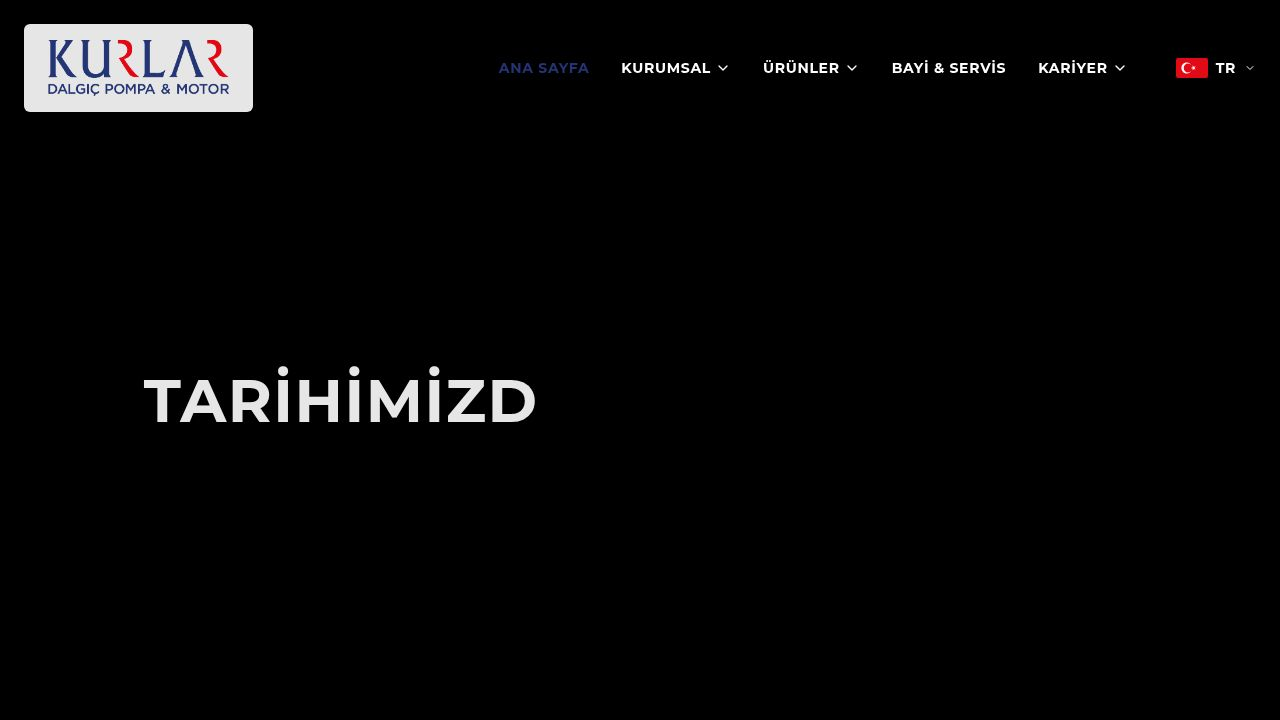
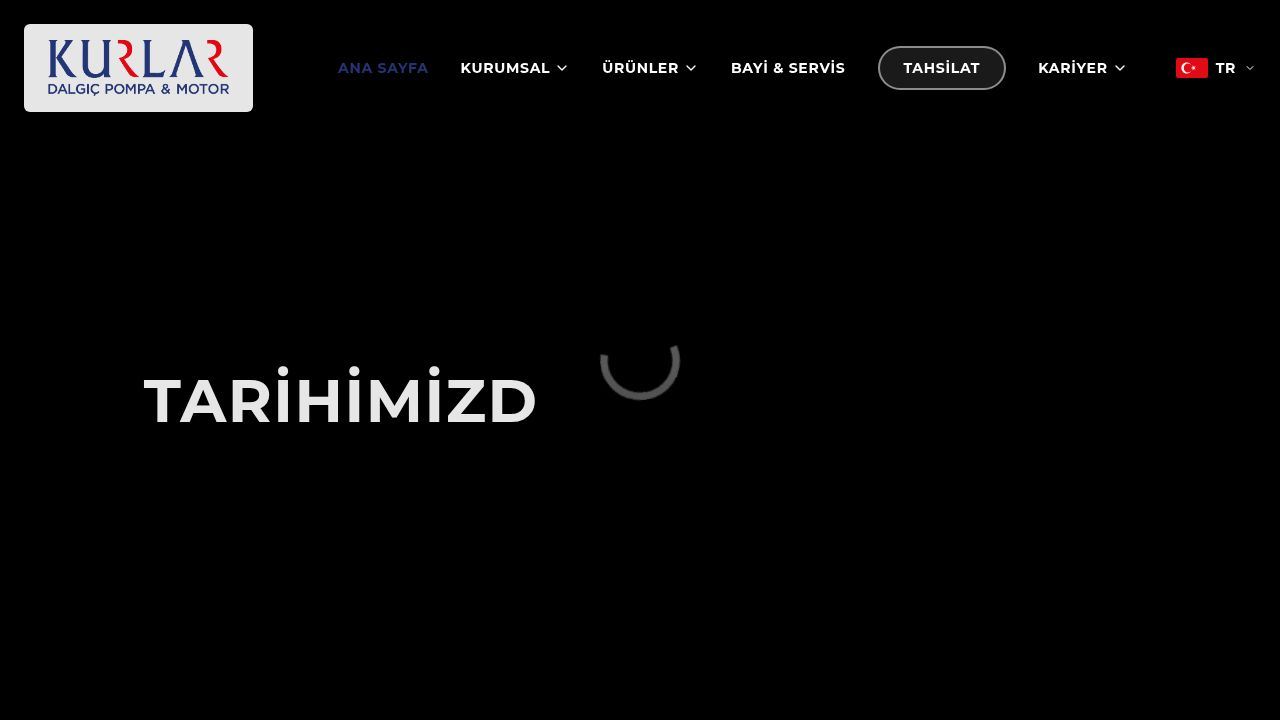
Add a distinct payment button to the navigation menu
Update Navbar component to feature a prominent, standalone payment button with a custom design for desktop and mobile views, and add corresponding translation keys.

Replit-Commit-Author: Agent
Replit-Commit-Session-Id: ecc1298d-eb76-48a1-befc-5071f44ff199
Replit-Commit-Checkpoint-Type: full_checkpoint
Replit-Commit-Event-Id: 6f4a954d-a4da-440a-8f6b-f0386c5cca6b
Replit-Commit-Screenshot-Url: https://storage.googleapis.com/screenshot-production-us-central1/90b9dcb9-538e-4c38-aeb6-b293201739da/ecc1298d-eb76-48a1-befc-5071f44ff199/B1Kamar
Replit-Helium-Checkpoint-Created: true

diff --git a/client/src/components/layout/Navbar.tsx b/client/src/components/layout/Navbar.tsx
@@ -43,7 +43,6 @@ export function Navbar() {
       href: "/urunler"
     },
     { type: "link", name: t('nav.dealer_service'), href: "/bayi-servis" },
-    { type: "link", name: t('nav.payment'), href: "https://tahsilat.kurlar.com.tr/" },
     {
       type: "dropdown",
       name: t('nav.career'),
@@ -109,10 +108,10 @@ export function Navbar() {
                     target="_blank" 
                     rel="noopener noreferrer"
                     className={cn(
-                      "text-sm font-bold uppercase tracking-wider hover:text-primary transition-all flex items-center gap-2 px-4 py-2 rounded-lg border", 
+                      "text-sm font-bold uppercase tracking-wider transition-all flex items-center justify-center px-6 py-2.5 rounded-full shadow-md hover:shadow-lg border-2", 
                       isTransparent 
-                        ? "text-white border-white/30 hover:bg-white hover:text-slate-900" 
-                        : "text-slate-700 border-slate-200 hover:border-primary hover:bg-primary/5"
+                        ? "bg-white/10 text-white border-white/50 hover:bg-white hover:text-primary backdrop-blur-sm" 
+                        : "bg-primary text-white border-primary hover:bg-primary/90 hover:border-primary/90"
                     )}
                   >
                     {item.name}
@@ -395,7 +394,10 @@ export function Navbar() {
             {menuStructure.map((item) => (
               <div key={item.name} className="border-b border-slate-100 last:border-0">
                 <div 
-                  className="py-4 flex justify-between items-center cursor-pointer group"
+                  className={cn(
+                    "flex justify-between items-center cursor-pointer group",
+                    item.href.startsWith('http') ? "mt-4" : "py-4"
+                  )}
                   onClick={() => {
                     if (item.children || item.type === "mega") {
                       setExpandedMobileItem(expandedMobileItem === item.name ? null : item.name);
@@ -408,11 +410,11 @@ export function Navbar() {
                         href={item.href} 
                         target="_blank" 
                         rel="noopener noreferrer" 
-                        className="text-lg font-bold text-slate-900 block w-full flex items-center justify-between" 
+                        className="w-full flex items-center justify-center gap-2 bg-primary text-white py-4 px-6 rounded-xl font-bold shadow-lg hover:shadow-xl transition-all" 
                         onClick={() => setMobileMenuOpen(false)}
                       >
                         {item.name}
-                        <ArrowRight className="w-5 h-5 text-slate-400" />
+                        <ArrowRight className="w-5 h-5" />
                       </a>
                     ) : (
                       <Link href={item.href} className="text-lg font-bold text-slate-900 block w-full" onClick={() => setMobileMenuOpen(false)}>
